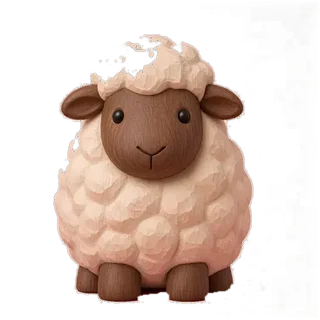
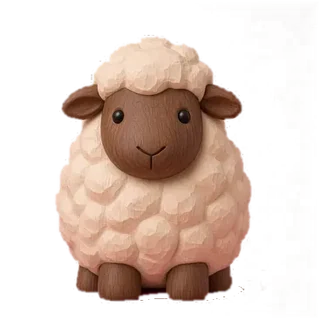
Fix sheep cut-out: keep the wool on top, clean edge
Claude-Session: https://claude.ai/code/session_014VXt4jTSmj6hx4uaTcAb1K

diff --git a/tools/cut-soft-edge.py b/tools/cut-soft-edge.py
@@ -1,0 +1,33 @@
+# For toys whose colour is close to the card background (the sheep's wool):
+# keeps every warm pixel, closes holes and keeps the solid body.
+# Usage: python3 tools/cut-soft-edge.py assets/cards-framed/card-sheep.webp public/cards/sheep.webp
+from PIL import Image, ImageDraw, ImageFilter
+import numpy as np, sys
+X0,Y0,S=104,92,367
+src,out=sys.argv[1:3]
+a=np.array(Image.open(src).convert('RGB').crop((X0,Y0,X0+S,Y0+S))).astype(int)
+edge=np.concatenate([a[:4].reshape(-1,3),a[-4:].reshape(-1,3),a[:,:4].reshape(-1,3),a[:,-4:].reshape(-1,3)])
+bg=np.median(edge,0)
+warm=a[:,:,0]-a[:,:,2]
+dist=np.sqrt(((a-bg)**2).sum(2))
+mag=(a[:,:,0]-a[:,:,1]>40)&(a[:,:,2]-a[:,:,1]>25)
+fg=((warm>43)|(dist>30))&~mag
+m=Image.fromarray((fg*255).astype('uint8'))
+m=m.filter(ImageFilter.MinFilter(3)).filter(ImageFilter.MaxFilter(7)).filter(ImageFilter.MinFilter(5))  # denoise + close
+# fill holes: flood exterior
+ext=m.copy(); ImageDraw.floodfill(ext,(0,0),128)
+solid=np.array(ext)!=128
+# keep the biggest blob: flood from centre
+lab=Image.fromarray((solid*255).astype("uint8")).copy(); ImageDraw.floodfill(lab,(S//2,S//2),77)
+body=np.array(lab)==77
+alpha=Image.fromarray((body*255).astype("uint8")).filter(ImageFilter.MinFilter(5)).filter(ImageFilter.GaussianBlur(1.0))
+al=np.array(alpha).astype(float)
+# soft ground shadow outside the body
+dark=np.clip(bg.sum()-a.sum(2),0,None)
+shadow=np.where(~body&~mag, np.clip(dark*1.1,0,110),0)
+yy,xx=np.mgrid[0:S,0:S]; border=np.minimum.reduce([yy,xx,S-1-yy,S-1-xx]).astype(float)
+shadow*=np.clip(border/18,0,1)
+A=np.maximum(al,shadow)
+rgb=a.copy(); rgb[~body]=[80,52,30]
+img=Image.fromarray(np.dstack([rgb.astype('uint8'),A.clip(0,255).astype('uint8')]),'RGBA').resize((320,320),Image.LANCZOS)
+img.save(out,'WEBP',quality=86,method=6)
